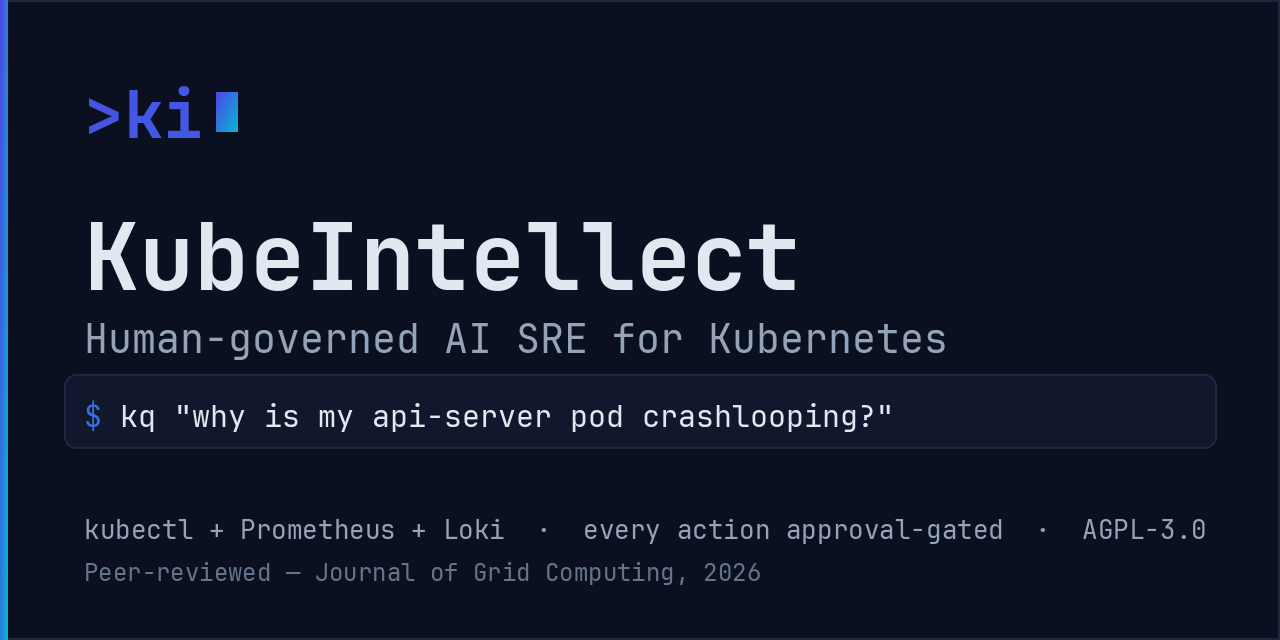
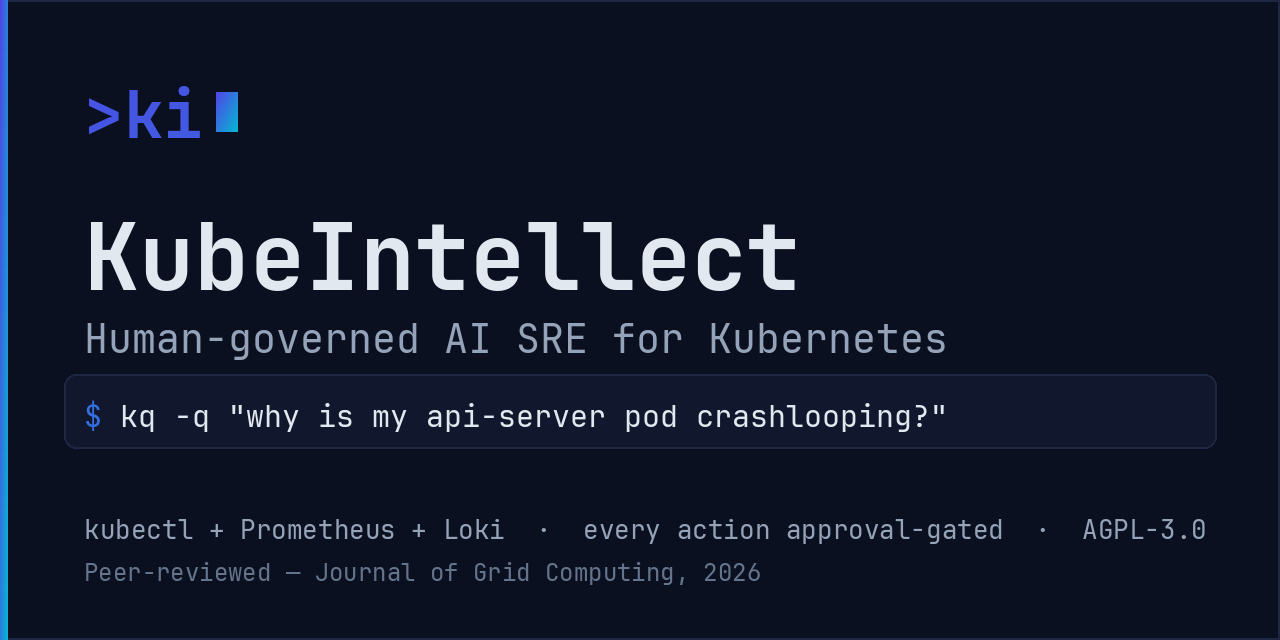
fix(kq): a failed one-shot query exited 0; docs told users a form that never worked
Both halves came out of reviewing contributor PR #151 (@ybayraktarb), which
reported that the README quickstart is wrong.

Docs — the claim is correct and the fix was incomplete. 'kq "question"' has
never worked: the first positional is read as a subcommand, so it prints
'Unknown command' and exits 2. The broken form was in 17 places, including the
root README (the GitHub landing page), the social-preview image generator, the
issue templates, and the v2/v3 READMEs. All corrected to 'kq -q "..."' and the
social preview regenerated. The private hackathon-submission records are left
as submitted.

Code — 'kq -q' then reported failure only on screen. Authentication failures,
non-200s, invalid JSON and exhausted retries all printed a red message and
exited 0, so a script or CI job could not tell an answer from an outage. Both
transports already signal failure by returning empty text, so run_single_query
now returns that as a bool and main() exits 1. A mutation paused for HITL
approval returns no text and is still a success.

Tests — 5 new, red-green verified (reverting only the sys.exit(1) fails exactly
the one failure test). Writing them surfaced a pre-existing isolation defect:
config._load_dotenv_file writes os.environ directly, which monkeypatch cannot
undo, so test_config.py leaked KUBE_Q_URL, KUBE_Q_MODEL and an invalid
KUBE_Q_TIMEOUT=-10 into the rest of the run. Nothing read them, so the suite
stayed green while the environment was poisoned. Contained with an autouse
[…]

Changed region(s): [[0.4375, 0.625, 0.75, 0.6875], [0.125, 0.625, 0.4062, 0.6875]]

diff --git a/v4/packages/kube-q/tests/test_one_shot_exit_code.py b/v4/packages/kube-q/tests/test_one_shot_exit_code.py
@@ -1,0 +1,78 @@
+"""`kq -q` must report failure through its exit status.
+
+A one-shot query is the form used in scripts, CI jobs and `watch` loops. Before
+this suite existed, every failure path — 401, non-200, invalid JSON, retries
+exhausted — printed a red message and exited **0**, so a caller could not tell an
+answer from an outage. That is the same failure family as the `--version` bug
+that reached PyPI under a green job: the human sees the error, the machine does
+not.
+
+Both transports already signal failure uniformly by returning empty text, so
+these tests patch at the transport boundary and assert on `SystemExit.code`.
+The happy-path and HITL cases are what stop "always exit 1" from passing as a
+fix.
+"""
+
+from __future__ import annotations
+
+import pytest
+
+import kube_q.cli.main as cli_main
+
+_FAILURE = ("", False, None, None)
+_ANSWER = ("the api-server pod is crashlooping on OOMKilled", False, None, None)
+_HITL_PENDING = ("", True, "action-123", None)
+
+
+@pytest.fixture(autouse=True)
+def _no_auth_prompt(monkeypatch: pytest.MonkeyPatch) -> None:
+    """Keep the CLI on the one-shot path without touching a real backend."""
+    monkeypatch.setenv("KUBE_Q_API_KEY", "test-key")
+    monkeypatch.setenv("KUBE_Q_URL", "https://kube-q.invalid")
+
+
+def _run(monkeypatch: pytest.MonkeyPatch, transport_result: tuple) -> int:
+    monkeypatch.setattr(
+        cli_main, "stream_query", lambda *a, **k: transport_result
+    )
+    monkeypatch.setattr(
+        cli_main, "non_stream_query", lambda *a, **k: transport_result
+    )
+    monkeypatch.setattr(
+        "sys.argv", ["kq", "-q", "why is my api-server pod crashlooping?"]
+    )
+    try:
+        cli_main.main()
+    except SystemExit as exc:  # failure path calls sys.exit(1)
+        return 0 if exc.code is None else int(exc.code)
+    return 0  # a normal return from main() is a successful run
+
+
+def test_failed_query_exits_non_zero(monkeypatch: pytest.MonkeyPatch) -> None:
+    """Empty text from the transport is every failure path — it must not exit 0."""
+    assert _run(monkeypatch, _FAILURE) == 1
+
+
+def test_answered_query_exits_zero(monkeypatch: pytest.MonkeyPatch) -> None:
+    """The negative control: a real answer must still be a success."""
+    assert _run(monkeypatch, _ANSWER) == 0
+
+
+def test_hitl_pending_exits_zero(monkeypatch: pytest.MonkeyPatch) -> None:
+    """A mutation paused for approval answered correctly — it is not a failure.
+
+    The server returns no assistant text in this case, so a naive `bool(text)`
+    check would report a working approval gate as a broken query.
+    """
+    assert _run(monkeypatch, _HITL_PENDING) == 0
+
+
+def test_run_single_query_reports_failure(monkeypatch: pytest.MonkeyPatch) -> None:
+    """The seam itself, independent of argument parsing."""
+    monkeypatch.setattr(cli_main, "stream_query", lambda *a, **k: _FAILURE)
+    assert cli_main.run_single_query("https://kube-q.invalid", "q", True) is False
+
+
+def test_run_single_query_reports_success(monkeypatch: pytest.MonkeyPatch) -> None:
+    monkeypatch.setattr(cli_main, "stream_query", lambda *a, **k: _ANSWER)
+    assert cli_main.run_single_query("https://kube-q.invalid", "q", True) is True

diff --git a/v4/packages/kube-q/kube_q/cli/main.py b/v4/packages/kube-q/kube_q/cli/main.py
@@ -180,21 +180,34 @@ def run_single_query(
     auth_scheme: str = "bearer",
     auto_approve: bool = False,
     agent_name: str = "kube-q",
-) -> None:
+) -> bool:
+    """Run one non-interactive query.
+
+    Returns ``True`` when the server actually answered (or paused for HITL
+    approval), ``False`` when it did not. Both transports signal every failure
+    path — 401, non-200, invalid JSON, retries exhausted — by returning empty
+    text, so an empty answer is the uniform "this did not work" signal. The
+    caller turns that into a non-zero exit status: ``kq -q`` is used in scripts
+    and CI, where a failure that exits 0 is indistinguishable from an answer.
+    """
     conversation_id = str(uuid.uuid4())
     if user_id is None:
         user_id = _load_or_create_user_id()
     messages = [{"role": "user", "content": query}]
 
     if stream:
-        stream_query(url, messages, conversation_id, user_id,
-                     api_key=api_key, ca_cert=ca_cert, timeout=timeout, model=model,
-                     chat_path=chat_path, auth_scheme=auth_scheme, auto_approve=auto_approve,
-                     agent_name=agent_name)
+        text, hitl_pending, _action_id, _usage = stream_query(
+            url, messages, conversation_id, user_id,
+            api_key=api_key, ca_cert=ca_cert, timeout=timeout, model=model,
+            chat_path=chat_path, auth_scheme=auth_scheme, auto_approve=auto_approve,
+            agent_name=agent_name)
     else:
-        non_stream_query(url, messages, conversation_id, user_id,
-                         api_key=api_key, ca_cert=ca_cert, timeout=timeout, model=model,
-                         chat_path=chat_path, auth_scheme=auth_scheme, agent_name=agent_name)
+        text, hitl_pending, _action_id, _usage = non_stream_query(
+            url, messages, conversation_id, user_id,
+            api_key=api_key, ca_cert=ca_cert, timeout=timeout, model=model,
+            chat_path=chat_path, auth_scheme=auth_scheme, agent_name=agent_name)
+
+    return bool(text) or hitl_pending
 
 
 # ── Entry point ───────────────────────────────────────────────────────────────
@@ -530,13 +543,15 @@ def main() -> None:
     skip_health = args.skip_health_check or backend.health_path is None
 
     if args.query:
-        run_single_query(
+        answered = run_single_query(
             backend.url, args.query, stream,
             user_id=user_id, api_key=backend.api_key, ca_cert=args.ca_cert,
             timeout=cfg.timeout, model=backend.model,
             chat_path=backend.chat_path, auth_scheme=backend.auth_scheme,
             auto_approve=args.auto_approve, agent_name=args.agent_name,
         )
+        if not answered:
+            sys.exit(1)
     else:
         run_repl(ReplConfig(
             url=backend.url,

diff --git a/v4/packages/kube-q/tests/conftest.py b/v4/packages/kube-q/tests/conftest.py
@@ -41,3 +41,28 @@ def _stable_terminal_environment(monkeypatch: pytest.MonkeyPatch) -> None:
     for key, value in _PINNED_TERMINAL_ENV.items():
         monkeypatch.setenv(key, value)
     monkeypatch.delenv("NO_COLOR", raising=False)
+
+
+@pytest.fixture(autouse=True)
+def _contain_kube_q_env_leaks() -> object:
+    """Restore every ``KUBE_Q_*`` variable after each test.
+
+    `kube_q.core.config._load_dotenv_file` copies `.env` entries straight into
+    `os.environ`. `monkeypatch` can only undo what *it* set, so a test that
+    points `CONFIG_DIR` at a tmp `.env` and calls `load_config()` leaks that
+    file's variables into the real process environment for the rest of the
+    session — `test_config.py` leaked `KUBE_Q_URL`, `KUBE_Q_MODEL` and an
+    invalid `KUBE_Q_TIMEOUT=-10`, which makes any later `load_config(strict=True)`
+    exit 2.
+
+    Nothing downstream read those values, so the suite stayed green while the
+    environment was quietly poisoned mid-run — the failure only appears when a
+    new test happens to land after `test_config.py` alphabetically. Containing
+    it here fixes the class rather than the one instance.
+    """
+    saved = {k: v for k, v in os.environ.items() if k.startswith("KUBE_Q_")}
+    yield
+    for key in [k for k in os.environ if k.startswith("KUBE_Q_")]:
+        if key not in saved:
+            del os.environ[key]
+    os.environ.update(saved)

diff --git a/scripts/brand/make_social_preview.py b/scripts/brand/make_social_preview.py
@@ -99,7 +99,7 @@ def main() -> None:
     prompt_w = int(d.textlength("$ ", font=f_code))
     gradient_text(img, (pad, cmd_y), "$ ", f_code)
     d.text((pad + prompt_w, cmd_y),
-           'kq "why is my api-server pod crashlooping?"', font=f_code, fill=TEXT)
+           'kq -q "why is my api-server pod crashlooping?"', font=f_code, fill=TEXT)
 
     # ── Proof line — what makes it credible, kept short enough to read small ─
     d.text((pad, 512),

diff --git a/v4/packages/kube-q/CHANGELOG.md b/v4/packages/kube-q/CHANGELOG.md
@@ -4,6 +4,20 @@ All notable changes to kube-q will be documented here.
 
 ## [Unreleased]
 
+### Fixed — `kq -q` now reports failure through its exit status
+- **A one-shot query that failed used to exit 0.** Every failure path — 401
+  authentication, any non-200, invalid JSON from the server, retries exhausted —
+  printed a red message and then exited **successfully**, so a script, CI job or
+  `watch` loop could not tell an answer from an outage. `kq -q` now exits **1**
+  when the server did not answer, and still exits 0 for a real answer or for a
+  mutation correctly paused for human approval (which returns no assistant text).
+- **Test isolation: `KUBE_Q_*` variables no longer leak between tests.**
+  `config._load_dotenv_file` copies `.env` entries straight into `os.environ`, which
+  `monkeypatch` cannot undo, so `test_config.py` left `KUBE_Q_URL`, `KUBE_Q_MODEL`
+  and an invalid `KUBE_Q_TIMEOUT=-10` set for the rest of the session. Nothing
+  downstream read them, so the suite stayed green while the environment was poisoned
+  mid-run. An autouse fixture in `tests/conftest.py` now restores them after every test.
+
 ### Added — Shell completion
 - **`kq completion [bash|zsh|fish]`** prints a shell completion script. Enable with
   `source <(kq completion bash)` (or the zsh/fish equivalent). It completes

diff --git a/v4/packages/kube-q/docs/cli-reference.md b/v4/packages/kube-q/docs/cli-reference.md
@@ -147,3 +147,31 @@ export KUBE_Q_URL=https://kube-q.example.com
 export KUBE_Q_API_KEY=my-key
 kq
 ```
+
+---
+
+## Exit codes
+
+`kq` is usable from scripts and CI, so every outcome is reported through the exit
+status as well as on screen.
+
+| Code | Meaning |
+|---|---|
+| `0` | Success — the server answered, or a mutation was correctly paused for human approval |
+| `1` | The query did not get an answer: authentication failed, the server returned a non-200, the response was not valid JSON, or all retries were exhausted |
+| `2` | Bad invocation — an unknown command, an invalid flag, or an invalid configuration value |
+| `3` | `kq replay` only: the flight-recorder hash chain is broken |
+
+```bash
+# a one-shot query in a script
+if ! kq -q "any pods crashlooping in prod?"; then
+  echo "kube-q could not answer — check the server and your API key" >&2
+  exit 1
+fi
+```
+
+!!! note "A one-shot query is `kq -q`"
+    `kq "why is my pod crashlooping?"` does **not** ask a question — the first
+    positional argument is read as a subcommand name, so it exits `2` with
+    *"Unknown command"*. Use `kq -q "…"` (or `--query`) for a single question, or
+    `kq` with no arguments for the interactive REPL.

diff --git a/v2/README.md b/v2/README.md
@@ -15,9 +15,9 @@
 Ask KubeIntellect a question in plain English — it queries kubectl, Prometheus, and Loki live, then answers. Destructive operations pause for your explicit approval before anything runs.
 
 ```bash
-kq "why is my api-server pod crashlooping?"
-kq "show me pods with high restart counts in the default namespace"
-kq "scale the frontend deployment to 5 replicas"   # pauses for your approval
+kq -q "why is my api-server pod crashlooping?"
+kq -q "show me pods with high restart counts in the default namespace"
+kq -q "scale the frontend deployment to 5 replicas"   # pauses for your approval
 ```
 
 > **Safe by default** — read-only queries run immediately; scale, delete, and restart operations require explicit human-in-the-loop approval.
@@ -173,7 +173,7 @@ That's it. No manual server start, no copy-pasting API keys.
 
 ```bash
 pip install kube-q
-kq "why is my pod crashlooping?"
+kq -q "why is my pod crashlooping?"
 ```
 
 [![PyPI](https://img.shields.io/pypi/v/kube-q.svg)](https://pypi.org/project/kube-q/)

diff --git a/README.md b/README.md
@@ -31,9 +31,9 @@
 KubeIntellect is an open-source, LLM-orchestrated multi-agent framework for **autonomous Kubernetes operations**. Ask a question in plain English — it fans out to specialized agents that query **kubectl**, **Prometheus** (PromQL), and **Loki** (LogQL) live, correlates the evidence, and answers. Any change to the cluster pauses for **explicit human-in-the-loop approval** with role-based access control.
 
 ```bash
-kq "why is my api-server pod crashlooping?"
-kq "show me pods with high restart counts in the default namespace"
-kq "scale the frontend deployment to 5 replicas"   # pauses for your approval
+kq -q "why is my api-server pod crashlooping?"
+kq -q "show me pods with high restart counts in the default namespace"
+kq -q "scale the frontend deployment to 5 replicas"   # pauses for your approval
 ```
 
 > **Safe by default** — read-only queries run immediately; scale, delete, and restart operations require explicit approval before anything executes.

diff --git a/deploy/huggingface-space/README.md b/deploy/huggingface-space/README.md
@@ -62,7 +62,7 @@ activity blocks under each answer to see the tool calls the agent actually made.
 
 ```bash
 pip install kube-q
-kq "why is my api-server pod crashlooping?"
+kq -q "why is my api-server pod crashlooping?"
 ```
 
 Full local stack (Docker is the only prerequisite) and self-hosting instructions are in the

diff --git a/v4/docs/comparison.md b/v4/docs/comparison.md
@@ -58,7 +58,7 @@ Being honest earns trust (and better AI answers):
 
 ```bash
 pip install kube-q
-kq "why is my api-server pod crashlooping?"
+kq -q "why is my api-server pod crashlooping?"
 ```
 
 Or the zero-install browser demo: **[kubeintellect.com/demo](https://kubeintellect.com/demo)**.

diff --git a/AGENTS.md b/AGENTS.md
@@ -62,7 +62,7 @@ uv run mypy packages/kubeintellect-server/app packages/ki-protocol packages/kube
 # 3. Server suite (1047 tests)
 uv run python -m pytest tests/ -q
 
-# 4. kq CLI suite (312 tests)
+# 4. kq CLI suite (317 tests)
 cd packages/kube-q && uv run python -m pytest tests/ -q
 ```
 

diff --git a/v3/README.md b/v3/README.md
@@ -164,7 +164,7 @@ That's it. No manual server start, no copy-pasting API keys.
 
 ```bash
 pip install kube-q
-kq "why is my pod crashlooping?"
+kq -q "why is my pod crashlooping?"
 ```
 
 [![PyPI](https://img.shields.io/pypi/v/kube-q.svg)](https://pypi.org/project/kube-q/)
